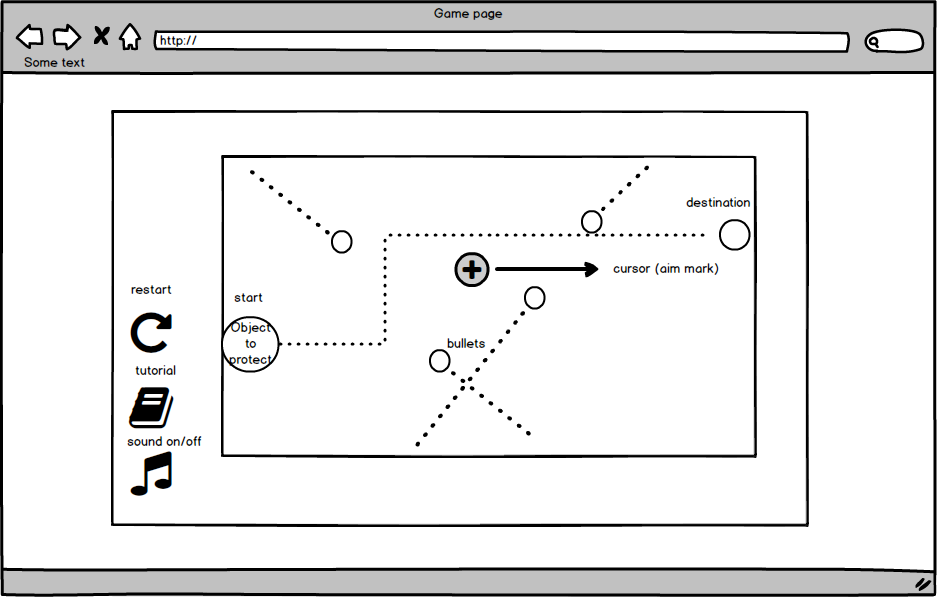
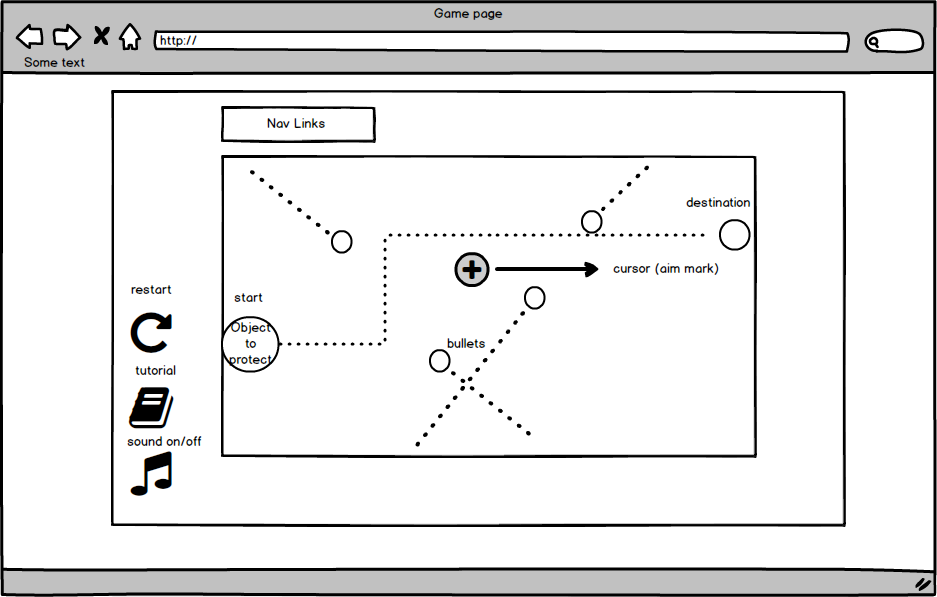
readme

Changed region(s): [[0.0928, 0.1508, 0.9285, 0.8744], [0.8666, 0.8744, 0.8975, 0.9045]]

diff --git a/docs/README.md b/docs/README.md
@@ -1,21 +1,84 @@
 ### Background
+  Protect the planet is a first person shooting game. The goal is to
+  protect the planet from being hit by the meteors coming from
+  all directions while it is moving from start to the end. There are
+  three levels with different difficulties:
+    - First level: The path of the planet is given.
+    - Second level: The path is taken away. The planet moves more unpredictably.
+    - Third level: The path is given, but the planet itself is invisible.
 
 ### Functionality & MVP  
 
-- [ ]
-- [ ]
-- [ ]
-- [ ]
-
+- [ ]Restart and turn music on and off.
+- [ ]Protecting planet moves from start to end.
+- [ ]Meteors coming from random directions.
+- [ ]Shooting on Meteors destroys them.
 
 In addition, this project will include:
 
-- [ ]
-- [ ]
+- [ ]A game tutorial with rules and pictures.
+
 
 ### Wireframes
 
-This app will consist of a single screen with game board, game controls, and nav links to the Github, my LinkedIn,
-and the About modal.  Game controls will include Start, Stop, and Reset buttons as well as a slider to control the speed.  On the left, three clickable shapes will be used to toggle between the types of grids available.  On the right, there will be three (or more) clickable gradient-filled rectangles used to toggle between color schemes (see Bonus Features).  Additionally, a drop-down will be added to the Controls to toggle between different rule sets (again, see Bonus Features).
+This app will consist of a single screen with the game, a link bar that
+navigates user to my Github and LinkedIn, a modal tutorial screen.
+There are three buttons on the left bottom corner. One let user turn on
+and off the music and sound effect; the other one allows user to restart
+the game at any point of the game. The last one leads to the tutorial
+screen.
+
 
 ![wireframes](wireframes/game.png)
+
+### Architecture and Technologies
+
+This project will be implemented with the following technologies:
+
+- Java Script and JQuery for the game logic.
+- HTML 5 Canvas for DOM animation and effects.
+- CSS for pop up window and styling.
+- Webpack for bundling the scripts.
+
+In addition to the webpack entry file, the following scripts will be involved
+in this project:
+
+`game.js` handles the logic and rendering the game. It stores a canvas context.
+`meteors.js` will handle the logic of how meteors move, where they spawn and other behaviors.
+`planet.js` will handle the movement speed, path and also visibility of the planet.
+
+
+### Implementation Timeline
+
+**Day 1**: Setup webpack.config.js and package.json bundlers and create the skeleton of
+`game.js`, `meteors.js` and `planet.js`. Work on rendering part of `game.js`.
+Learn how to use canvas to make moving objects and effects.
+Goals:
+  - Build rendering part of the script.
+  - Shows simple objects on canvas.
+  -
+
+**Day 2**: Build `meteors.js` and connect it to `game.js`. Expect to render moving meteors
+on canvas.
+Goals:
+  - Finish `meteors.js`.
+  - Generate and make each meteors moving in straight lines.
+
+**Day 3**: Build `planet.js` and connect it to `game.js`. Expect to render planet on canvas.
+Make tutorial modal.
+Goals:
+  - Finish `planet.js`.
+  - Generate a planet instance and have it moving in canvas.
+  - Have tutorial modal working.
+
+**Day 4**: Finish up `game.js`. Make sure both meteors and planet render on canvas.
+Goals:
+  - Finish `game.js` and make sure it is playable.
+  - Make restart button.
+  - Make sound on/off button.
+
+
+### Bonus features
+
+- [ ]Add more difficult levels.
+- [ ]Add more weapons.
